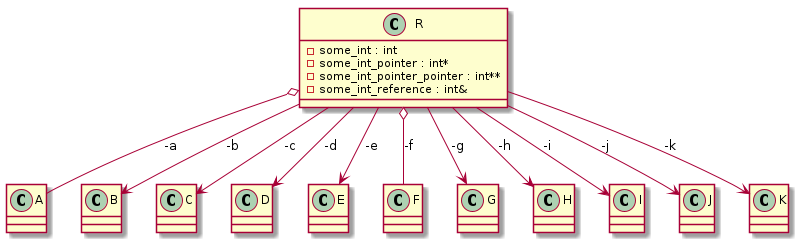
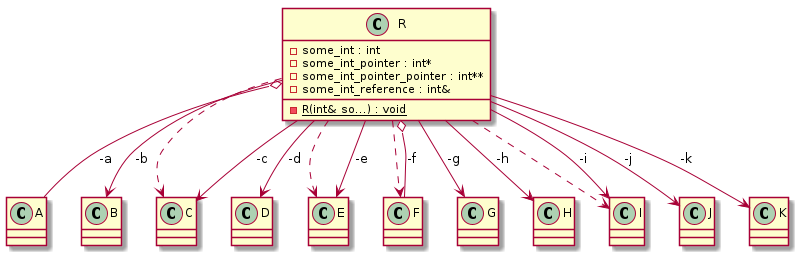
Updated test cases documentation

diff --git a/docs/test_cases/t00017.md b/docs/test_cases/t00017.md
@@ -19,6 +19,8 @@ diagrams:
 ## Source code
 File t00017.cc
 ```cpp
+#include <utility>
+
 namespace clanguml {
 namespace t00017 {
 class A {
@@ -55,6 +57,15 @@ class K {
 };
 
 class R {
+    explicit R(int &some_int, C &cc, const E &ee, F &&ff, I *&ii)
+        : some_int_reference{some_int}
+        , c{cc}
+        , e{ee}
+        , f{std::move(ff)}
+        , i{ii}
+    {
+    }
+
 private:
     int some_int;
     int *some_int_pointer;
@@ -64,7 +75,7 @@ private:
     B *b;
     C &c;
     const D *d;
-    const E &e{};
+    const E &e;
     F &&f;
     G **g;
     H ***h;

diff --git a/docs/test_cases.md b/docs/test_cases.md
@@ -43,5 +43,6 @@
  * [t30004](./test_cases/t30004.md) - PlantUML package decorators test case
  * [t30005](./test_cases/t30005.md) - Package namespace alias test case
  * [t30006](./test_cases/t30006.md) - Package split namespace test case
+ * [t30007](./test_cases/t30007.md) - Package diagram layout hints test case
 ## Configuration diagrams
  * [t90000](./test_cases/t90000.md) - Basic config test

diff --git a/docs/test_cases/t00028.md b/docs/test_cases/t00028.md
@@ -59,6 +59,11 @@ enum class F { one, two, three };
 
 /// \uml{note[right] R class note.}
 class R {
+    explicit R(C &c)
+        : ccc(c)
+    {
+    }
+
     A aaa;
 
     B *bbb;

diff --git a/docs/test_cases/t00006.md b/docs/test_cases/t00006.md
@@ -18,6 +18,7 @@ diagrams:
 ## Source code
 File t00006.cc
 ```cpp
+#include <array>
 #include <map>
 #include <vector>
 
